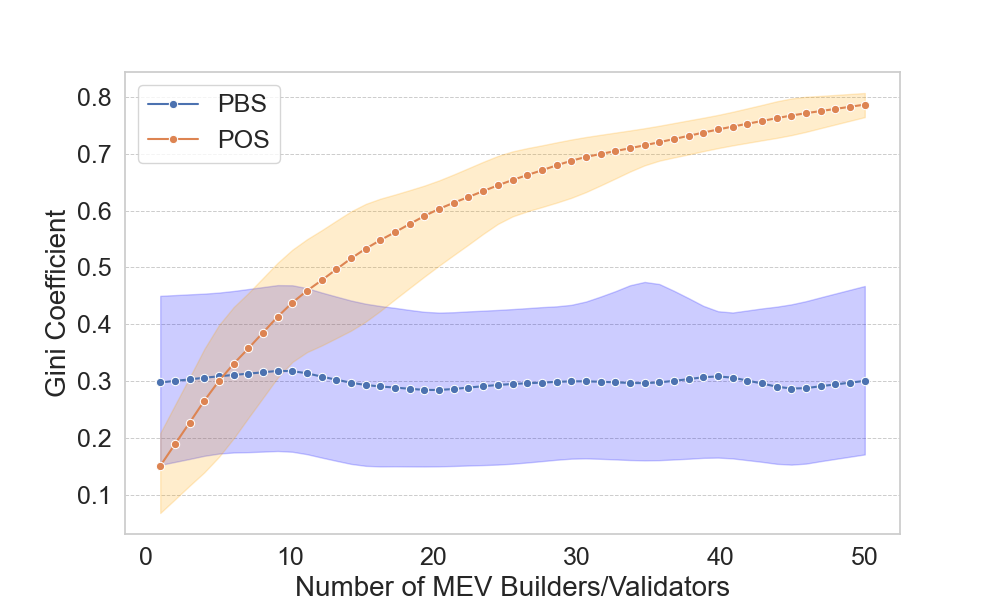
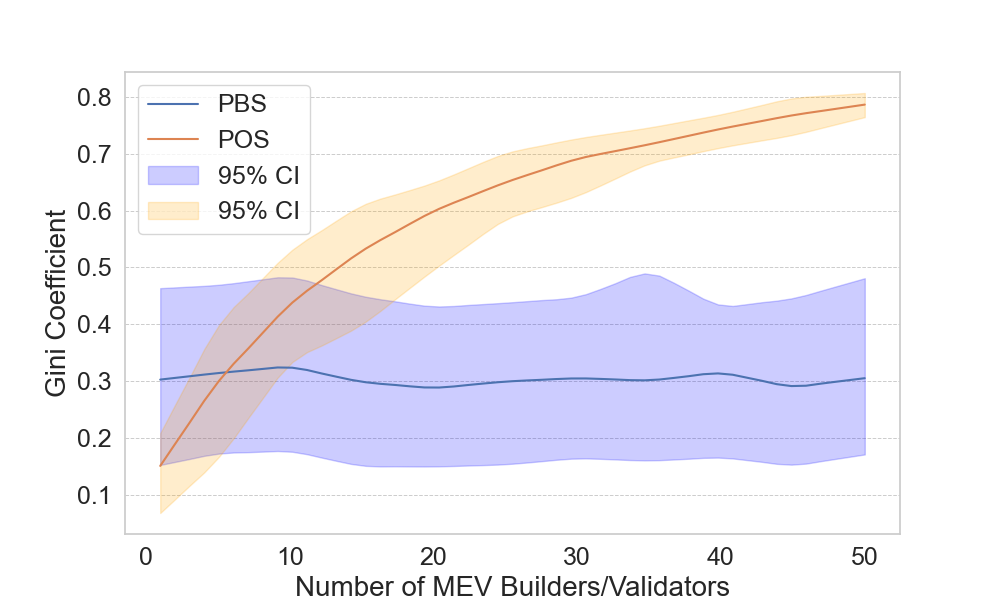
ci

diff --git a/plots/new/100_run_plot.py b/plots/new/100_run_plot.py
@@ -13,7 +13,7 @@ def compute_gini(array):
     array = array.astype(float).flatten()
     if np.amin(array) < 0:
         array -= np.amin(array)
-    array += 0.0000001
+    array += 0.0000001  # To avoid division by zero
     array = np.sort(array)
     index = np.arange(1, array.shape[0] + 1)
     n = array.shape[0]
@@ -29,19 +29,33 @@ def load_profits(data_dir, mev_counts):
                 if os.path.exists(file_path):
                     df = pd.read_csv(file_path)
                     df['fee'] = pd.to_numeric(df['fee'], errors='coerce')
-                    run_profits.append(df.groupby('creator_id')['fee'].sum().values)
-                else:
-                    print(f"File {file_path} not found. Skipping...")
-            
-            run_profits = [profits[np.isfinite(profits) & (profits >= 0)] for profits in run_profits if len(profits) > 0]
-            profits[system][mev_count] = run_profits
+                    df['mev_captured'] = pd.to_numeric(df['mev_captured'], errors='coerce')
+                    if 'block_bid' in df.columns:
+                        df['block_bid'] = pd.to_numeric(df['block_bid'], errors='coerce', downcast='float')
+                    else:
+                        df['block_bid'] = 0
+
+                    if system == 'pbs':
+                        df['profit'] = df['fee'] + df['mev_captured'] - df['block_bid']
+                    elif system == 'pos':
+                        df['profit'] = df['fee'] + df['mev_captured']
+
+                    proposer_profits = df.groupby('creator_id')['profit'].sum().values
+                    run_profits.append(proposer_profits)
+
+            if len(run_profits) > 0:
+                run_profits = [profits[np.isfinite(profits) & (profits >= 0)] for profits in run_profits if len(profits) > 0]
+                profits[system][mev_count] = run_profits
+            else:
+                profits[system][mev_count] = np.array([])
+
     return profits
 
 def calculate_gini_statistics(profits):
     gini_stats = {'pbs': {}, 'pos': {}}
     for system in ['pbs', 'pos']:
         for mev_count, runs in profits[system].items():
-            gini_values = [compute_gini(profits) for profits in runs if len(profits) > 0]
+            gini_values = [compute_gini(run) for run in runs if len(run) > 0]
             if gini_values:
                 mean_gini = np.mean(gini_values)
                 lower_ci = np.percentile(gini_values, 2.5)
@@ -80,10 +94,10 @@ def plot_gini_with_confidence(data_dir, mev_counts):
     _, upper_ci_pos_smooth = interpolate_and_smooth(np.array(mev_counts)[valid_indices_pos], np.array(upper_ci_pos)[valid_indices_pos])
 
     fig, ax = plt.subplots(figsize=(10, 6))
-    sns.lineplot(x=x_pbs, y=y_pbs, marker='o', label='PBS', ax=ax)
-    sns.lineplot(x=x_pos, y=y_pos, marker='o', label='POS', ax=ax)
-    ax.fill_between(x_pbs, lower_ci_pbs_smooth, upper_ci_pbs_smooth, color='blue', alpha=0.2)
-    ax.fill_between(x_pos, lower_ci_pos_smooth, upper_ci_pos_smooth, color='orange', alpha=0.2)
+    sns.lineplot(x=x_pbs, y=y_pbs, label='PBS', ax=ax)
+    sns.lineplot(x=x_pos, y=y_pos, label='POS', ax=ax)
+    ax.fill_between(x_pbs, lower_ci_pbs_smooth, upper_ci_pbs_smooth, color='blue', alpha=0.2, label='95% CI')
+    ax.fill_between(x_pos, lower_ci_pos_smooth, upper_ci_pos_smooth, color='orange', alpha=0.2, label='95% CI')
 
     ax.set_xlabel('Number of MEV Builders/Validators', fontsize=20)
     ax.set_ylabel('Gini Coefficient', fontsize=20)
